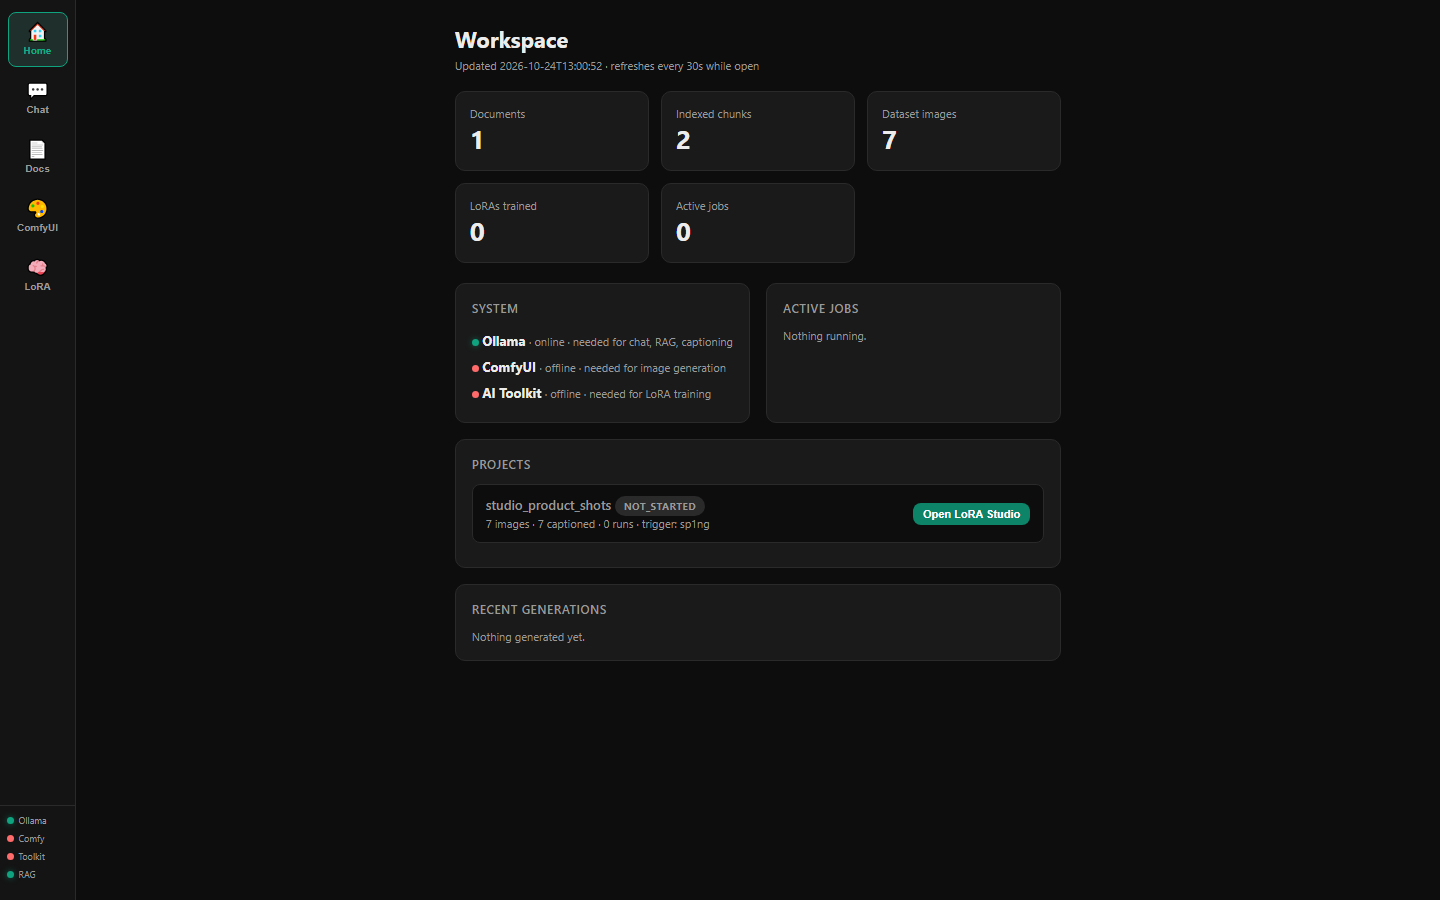
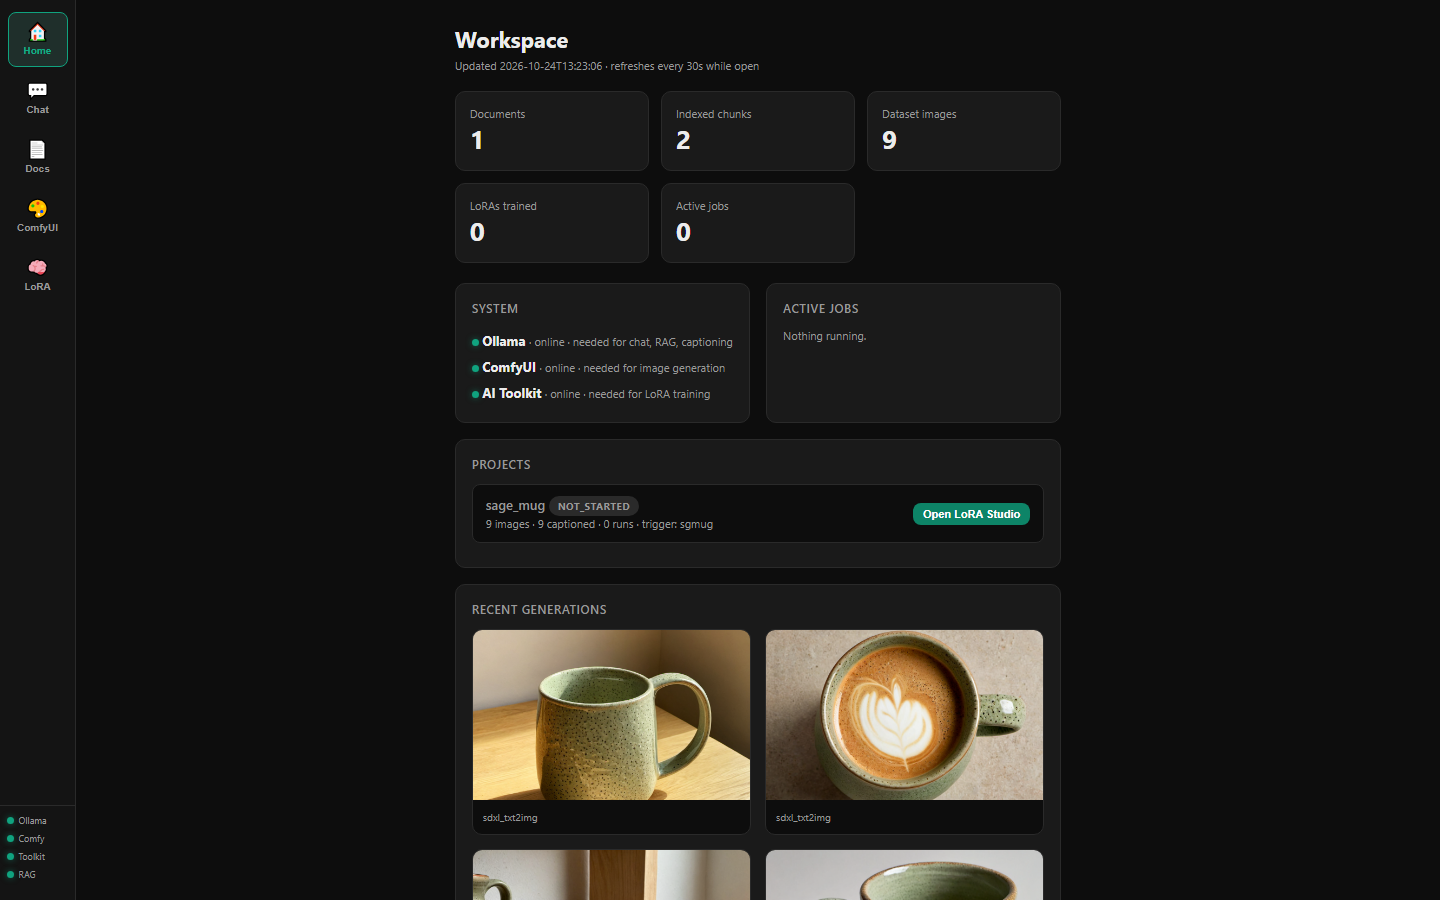
docs: real screenshots for LoRA Studio and ComfyUI; drop the em dash from the SDXL workflow description

Changed region(s): [[0.3125, 0.6844, 0.75, 1.0], [0.3438, 0.5289, 0.5, 0.5911], [0.375, 0.4044, 0.5, 0.4667]]

diff --git a/README.md b/README.md
@@ -64,13 +64,13 @@ Counts for documents, chunks, datasets and jobs, plus a health check that tells 
 
 ### LoRA Studio: dataset quality control
 
-One click scores a training set from 0 to 100. Here it catches an exact copy (`bottle_02_copy.jpg`) and two near duplicates before any GPU time is spent.
+One click scores a training set from 0 to 100. The photos here were generated through Apollo's own ComfyUI page; the check flags `mug_03_copy.png` as an exact copy before any GPU time is spent on training.
 
 ![Dataset quality check in LoRA Studio](images/lora-dataset.png)
 
 ### ComfyUI generation
 
-Pick an imported workflow, set the prompt and parameters, and check the graph before it is queued.
+Pick an imported workflow, set the prompt and parameters, and check the graph before it is queued. Every result keeps a sidecar with its workflow, prompt, seed and LoRA settings.
 
 ![ComfyUI generation page](images/comfyui.png)
 
